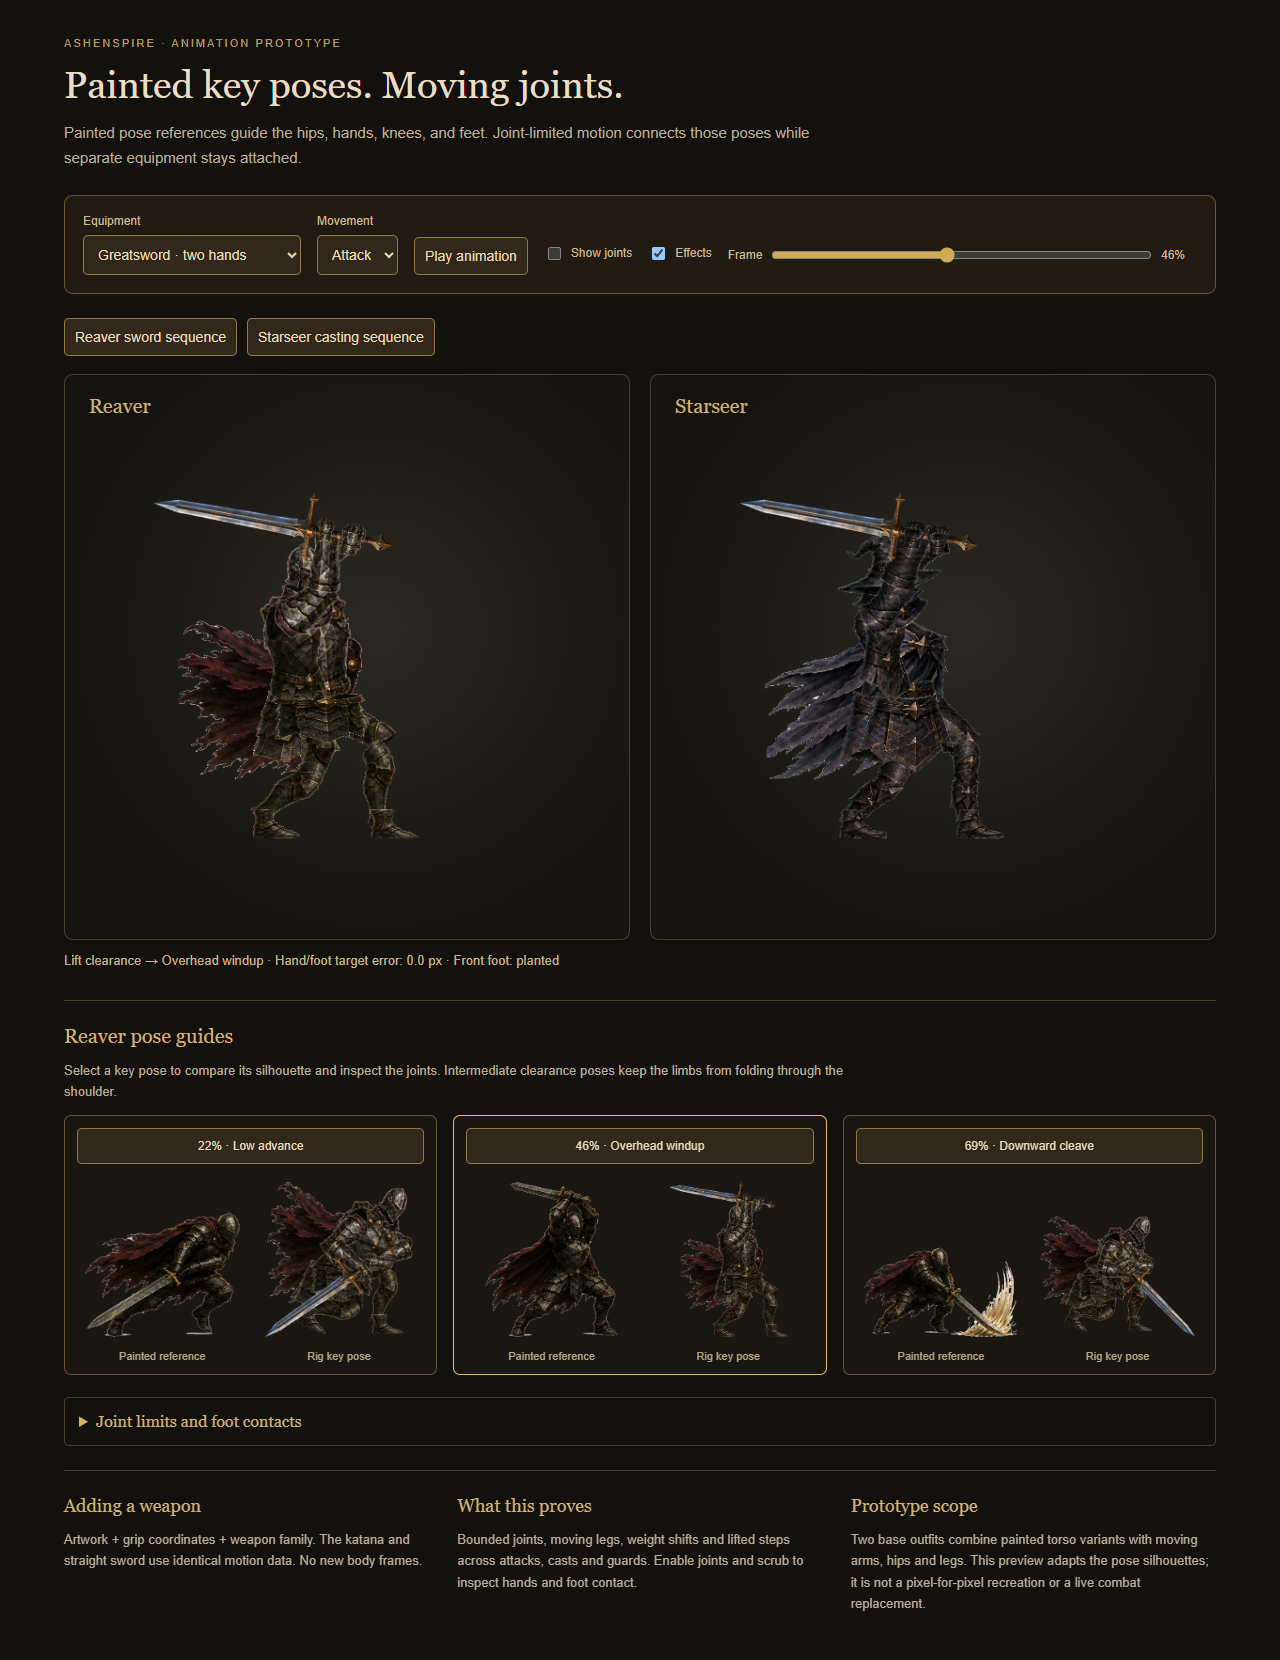
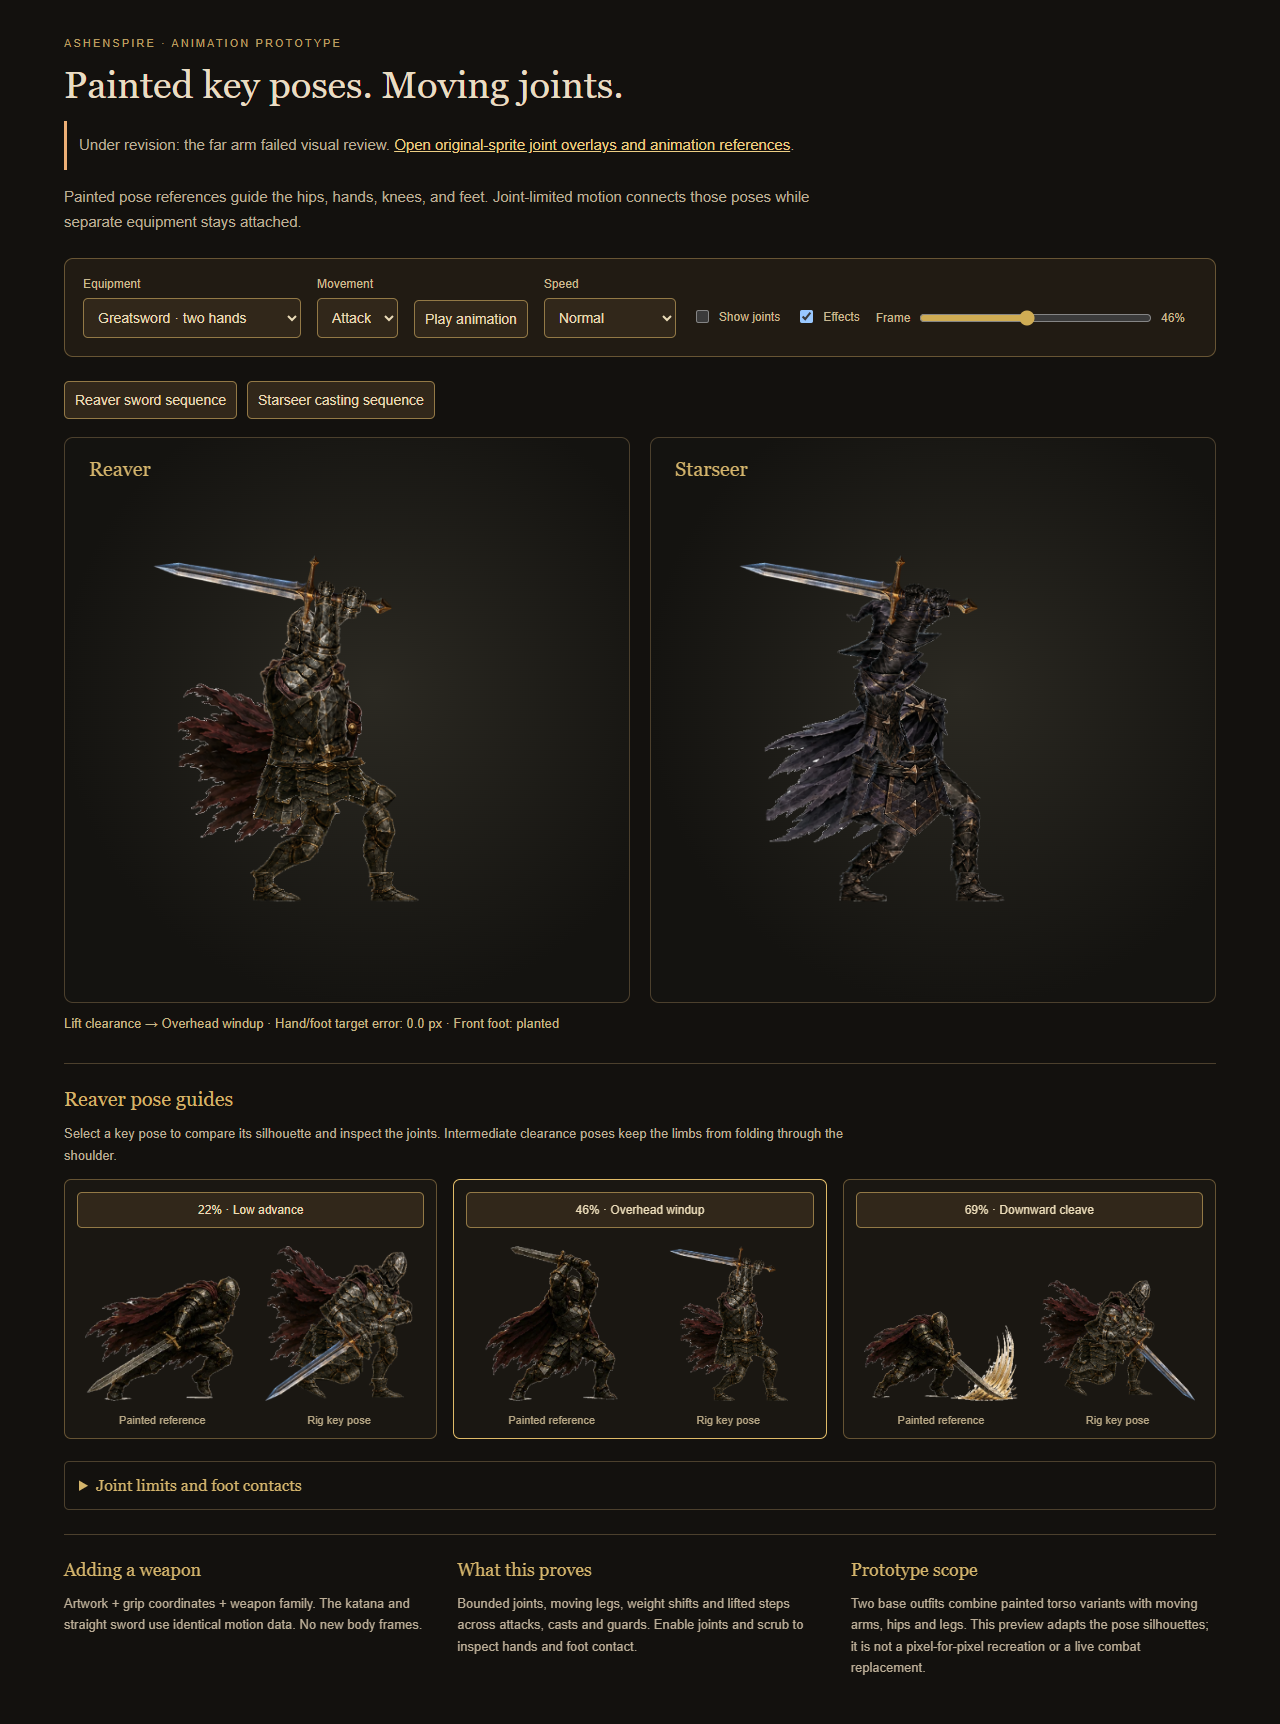
Map original combat sprite joints and expose animation review failures

diff --git a/equipment-rig-preview.html b/equipment-rig-preview.html
@@ -1,1 +1,1 @@
-<!doctype html><html lang="en"><meta charset="utf-8"><meta name="viewport" content="width=device-width,initial-scale=1"><title>AshenSpire · Equipment rig laboratory</title><link rel="stylesheet" href="art/equipment-rig/preview.css"><main><header><span class="eyebrow">AshenSpire · Animation prototype</span><h1>Painted key poses. Moving joints.</h1><p>Painted pose references guide the hips, hands, knees, and feet. Joint-limited motion connects those poses while separate equipment stays attached.</p></header><section class="controls" aria-label="Animation controls"><label>Equipment<select id="setup"></select></label><label>Movement<select id="action"><option value="attack">Attack</option><option value="cast">Cast</option><option value="guard">Guard</option></select></label><button id="play">Play animation</button><label class="check"><input type="checkbox" id="debug">Show joints</label><label class="check"><input type="checkbox" id="effects" checked>Effects</label><label class="timeline">Frame <input type="range" id="time" min="0" max="100" value="0"><output id="phase">0%</output></label></section><div class="presets"><button id="reaverPreset">Reaver sword sequence</button><button id="casterPreset">Starseer casting sequence</button></div><div id="error" role="alert"></div><section class="stages"><article><h2>Reaver</h2><canvas id="reaver" width="600" height="600" aria-label="Reaver equipment animation"></canvas></article><article><h2>Starseer</h2><canvas id="starseer" width="600" height="600" aria-label="Starseer equipment animation"></canvas></article></section><p id="status" aria-live="polite">Loading painted parts…</p><section class="reference-review"><h2 id="referenceTitle">Painted pose guides</h2><p>Select a key pose to compare its silhouette and inspect the joints. Intermediate clearance poses keep the limbs from folding through the shoulder.</p><div id="references"></div></section><details class="limits"><summary>Joint limits and foot contacts</summary><p>Elbows: 8–165° flexion. Knees: 8–145°. Wrists: ±50°. Ankles: ±60°. Spine: −12–40°. Shoulder and hip rotation also have bounded ranges. These are animation authoring limits. Green foot markers show ground contact; amber marks a lifted step.</p></details><section class="explanation"><div><h2>Adding a weapon</h2><p>Artwork + grip coordinates + weapon family. The katana and straight sword use identical motion data. No new body frames.</p></div><div><h2>What this proves</h2><p>Bounded joints, moving legs, weight shifts and lifted steps across attacks, casts and guards. Enable joints and scrub to inspect hands and foot contact.</p></div><div><h2>Prototype scope</h2><p>Two base outfits combine painted torso variants with moving arms, hips and legs. This preview adapts the pose silhouettes; it is not a pixel-for-pixel recreation or a live combat replacement.</p></div></section></main><script type="module" src="art/equipment-rig/preview.mjs"></script></html>
+<!doctype html><html lang="en"><meta charset="utf-8"><meta name="viewport" content="width=device-width,initial-scale=1"><title>AshenSpire · Equipment rig laboratory</title><link rel="stylesheet" href="art/equipment-rig/preview.css"><main><header><span class="eyebrow">AshenSpire · Animation prototype</span><h1>Painted key poses. Moving joints.</h1><p style="border-left:3px solid #edaf76;padding:12px">Under revision: the far arm failed visual review. <a style="color:#edcf85" href="joint-reference-preview.html">Open original-sprite joint overlays and animation references</a>.</p><p>Painted pose references guide the hips, hands, knees, and feet. Joint-limited motion connects those poses while separate equipment stays attached.</p></header><section class="controls" aria-label="Animation controls"><label>Equipment<select id="setup"></select></label><label>Movement<select id="action"><option value="attack">Attack</option><option value="cast">Cast</option><option value="guard">Guard</option></select></label><button id="play">Play animation</button><label>Speed<select id="rigSpeed"><option value="1">Normal</option><option value="0.25">Quarter speed</option></select></label><label class="check"><input type="checkbox" id="debug">Show joints</label><label class="check"><input type="checkbox" id="effects" checked>Effects</label><label class="timeline">Frame <input type="range" id="time" min="0" max="100" value="0"><output id="phase">0%</output></label></section><div class="presets"><button id="reaverPreset">Reaver sword sequence</button><button id="casterPreset">Starseer casting sequence</button></div><div id="error" role="alert"></div><section class="stages"><article><h2>Reaver</h2><canvas id="reaver" width="600" height="600" aria-label="Reaver equipment animation"></canvas></article><article><h2>Starseer</h2><canvas id="starseer" width="600" height="600" aria-label="Starseer equipment animation"></canvas></article></section><p id="status" aria-live="polite">Loading painted parts…</p><section class="reference-review"><h2 id="referenceTitle">Painted pose guides</h2><p>Select a key pose to compare its silhouette and inspect the joints. Intermediate clearance poses keep the limbs from folding through the shoulder.</p><div id="references"></div></section><details class="limits"><summary>Joint limits and foot contacts</summary><p>Elbows: 8–165° flexion. Knees: 8–145°. Wrists: ±50°. Ankles: ±60°. Spine: −12–40°. Shoulder and hip rotation also have bounded ranges. These are animation authoring limits. Green foot markers show ground contact; amber marks a lifted step.</p></details><section class="explanation"><div><h2>Adding a weapon</h2><p>Artwork + grip coordinates + weapon family. The katana and straight sword use identical motion data. No new body frames.</p></div><div><h2>What this proves</h2><p>Bounded joints, moving legs, weight shifts and lifted steps across attacks, casts and guards. Enable joints and scrub to inspect hands and foot contact.</p></div><div><h2>Prototype scope</h2><p>Two base outfits combine painted torso variants with moving arms, hips and legs. This preview adapts the pose silhouettes; it is not a pixel-for-pixel recreation or a live combat replacement.</p></div></section></main><script type="module" src="art/equipment-rig/preview.mjs"></script></html>

diff --git a/joint-reference-preview.html b/joint-reference-preview.html
@@ -1,0 +1,15 @@
+<!doctype html>
+<html lang="en"><meta charset="utf-8"><meta name="viewport" content="width=device-width,initial-scale=1">
+<title>AshenSpire · Source joint review</title><link rel="stylesheet" href="art/equipment-rig/preview.css">
+<style>
+a{color:#e5c879}.review-stages{display:grid;grid-template-columns:1fr 1fr;gap:20px}.review-stages article{min-width:0;background:#211e19;border:1px solid #655333;border-radius:8px;padding:16px}.review-stages canvas{width:100%;display:block}.legend{display:flex;gap:20px;flex-wrap:wrap;font:13px Arial}.near{color:#75e4df}.far{color:#edaf76}.pending{border-left:3px solid #edaf76;padding:8px 16px;background:#292017}.key-buttons{display:flex;gap:10px;flex-wrap:wrap}.key-buttons [aria-pressed=true]{background:#675021}.joint-gallery{display:grid;grid-template-columns:repeat(5,1fr);gap:8px}.joint-gallery figure{margin:0;min-width:0}.joint-gallery canvas{width:100%;background:#211e19}.joint-gallery figcaption{font:12px Arial;text-align:center;padding:8px}.joint-audit{font:13px/1.6 monospace;color:#edaf76}#readout{min-height:24px}.review-stages h2{position:static} @media(max-width:700px){.review-stages{grid-template-columns:1fr}.joint-gallery{grid-template-columns:repeat(2,1fr)}}
+</style>
+<main><header><span class="eyebrow">AshenSpire · Keyframe review</span><h1>Map the pose before moving it.</h1>
+<p>Shoulders, elbows, wrists, hips, knees and ankles drawn directly over the original painted frames. Every sequence begins and ends in guard.</p>
+<p class="pending">Joint mapping study. The earlier equipment animation failed visual review at the far arm. These source poses are the correction reference; generated in-between animation is not approved.</p></header>
+<section class="controls" aria-label="Reference controls"><button id="sourcePlay">Play key poses</button><label>Speed<select id="speed"><option value="1">Normal</option><option value="0.25">Quarter speed</option></select></label><label class="check"><input id="sourceOverlay" type="checkbox" checked>Show traced joints</label><label class="check"><input id="rigOverlay" type="checkbox">Compare earlier rig joints</label><label class="check"><input id="jointLabels" type="checkbox">Joint labels</label><label class="timeline">Sequence<input id="sourceTime" type="range" min="0" max="100" value="0"><output id="sourcePhase">0%</output></label></section>
+<div class="key-buttons" id="sourceKeys"></div><p id="readout" aria-live="polite">Loading source frames…</p><div class="legend"><span class="near">● Camera-near limbs</span><span class="far">● Camera-far limbs</span><span>○ Dashed / hollow = obscured, estimated joint center</span><span>Magenta = earlier rig; red = mismatch</span></div>
+<section class="review-stages"><article><h2>Reaver · Greatsword</h2><canvas id="sourceReaver" width="800" height="600" aria-label="Reaver original keyframe with joint overlay"></canvas><div id="reaverAudit" class="joint-audit"></div></article><article><h2>Starseer · Casting</h2><canvas id="sourceStarseer" width="800" height="600" aria-label="Starseer original keyframe with joint overlay"></canvas><div id="starseerAudit" class="joint-audit"></div></article></section>
+<p>The artwork and its traced joints share one fixed camera transform. Playback holds the original key poses; it does not pretend that sparse poses are a finished animation. For rig comparison, one scale is measured from guard and the pelvis is aligned at each pose. No separate limb fitting hides the errors. Obscured landmarks remain estimates.</p>
+<section class="reference-review"><h2>All mapped Reaver poses</h2><div class="joint-gallery" id="reaverGallery"></div><h2>All mapped Starseer poses</h2><div class="joint-gallery" id="starseerGallery"></div></section>
+<section class="reference-review"><h2>Motion comparison</h2><p><a href="https://esotericsoftware.com/spine-demos#Skins" target="_blank" rel="noopener">Spine’s Skins demo — select a skin and press Swing Sword</a>. Compare the shoulder connection, elbow bend, hand-to-hilt contact, leg movement and follow-through. This is a reference for reusable animation and equipment, while the painted AshenSpire sprites remain the pose and art reference.</p><p><a href="https://esotericsoftware.com/spine-demos#Spine-with-frame-based-animation" target="_blank" rel="noopener">Spine’s frame-based animation demo</a> shows how drawn pose changes can coexist with a skeleton.</p><p>Review the finished motion at normal and quarter speed, both with and without effects. Reject detached shoulders, reversed elbows, slipping grips, sliding planted feet, abrupt pose changes and a return that misses guard. Passing coordinate tests alone does not pass visual review.</p><p><a href="equipment-rig-preview.html">Earlier equipment prototype — under revision</a></p></section><div id="sourceError" role="alert"></div></main><script type="module" src="art/equipment-rig/source-review.mjs"></script></html>

diff --git a/art/equipment-rig/README.md b/art/equipment-rig/README.md
@@ -3,6 +3,53 @@
 Issue #785. This isolated preview demonstrates reusable equipment attachment on
 Reaver and Starseer. It does not replace live combat or change equipment rules.
 
+## Current review status: animation rejected, source mapping added
+
+Open `joint-reference-preview.html` for the correction reference. Ten original
+painted frames have manually inspected source-space shoulder, elbow, wrist,
+pelvis, hip, knee and ankle landmarks in `source-joints.mjs`. Hollow markers and
+dashed bones identify estimates obscured by armor or cloth. All overlays use the
+same source-image transform; they are not independently fitted thumbnails.
+
+The study plays guard, attack1, attack2, attack3, attack4, then guard, at normal or
+quarter speed. This is held-keyframe playback, not generated in-between art.
+The equipment prototype also now starts and closes its attacks in guard and has
+a quarter-speed control. Neither preview changes the shipped combat runtime.
+
+The source review can overlay the earlier rig and show arm landmark error. Its
+comparison uses a guard-derived scale and aligns the pelvis per pose; the arms
+are never fitted independently. This exposes differences in limb proportions
+and elbow placement that a zero hand-target error does not detect.
+
+Visual comparison: https://esotericsoftware.com/spine-demos#Skins (Swing Sword).
+Use its connected shoulders, weapon contact and body follow-through as motion
+references; AshenSpire's original painted poses remain the art reference. The
+companion frame-based demo shows the hybrid attachment approach:
+https://esotericsoftware.com/spine-demos#Spine-with-frame-based-animation.
+
+Inspection found the overhead far elbow folds inward toward the head, while
+the source bends it outward. A constant IK bend sign and generic shoulders
+cannot reproduce all of these projected poses. The arm's depth and perspective
+change across the source sequence. The existing assembly also draws the far
+upper arm a second time over the overhead torso. These remain reasons to reject
+the assembled animation; a passing reach test is not a visual pass. Use the new
+source maps to author the arm perspective and depth changes before producing
+more in-between frames. Do not silently replace this with a pole-sign switch:
+that can snap the elbow to the other side mid-animation.
+
+Reviewed the ten source overlays, the equipment guard/overhead/recovery poses,
+quarter-speed attack playback without effects, and the online sword demo.
+Artifacts: `inspection/source-maps/all-joints.png` and `comparison.png`.
+Automated checks separately cover source bounds, guard closure for every
+loadout, both playback speeds, overlay controls and a 390px viewport:
+
+    node --test art/equipment-rig/source-joints.test.mjs
+    node art/equipment-rig/source-review-check.mjs
+
+The animation is not marked ready. The owner requested no merge, and PR #789
+remains closed. The earlier prototype documentation below describes its
+implementation, not visual acceptance.
+
 Run from the repository root:
 
     node art/equipment-rig/serve.mjs 4291
